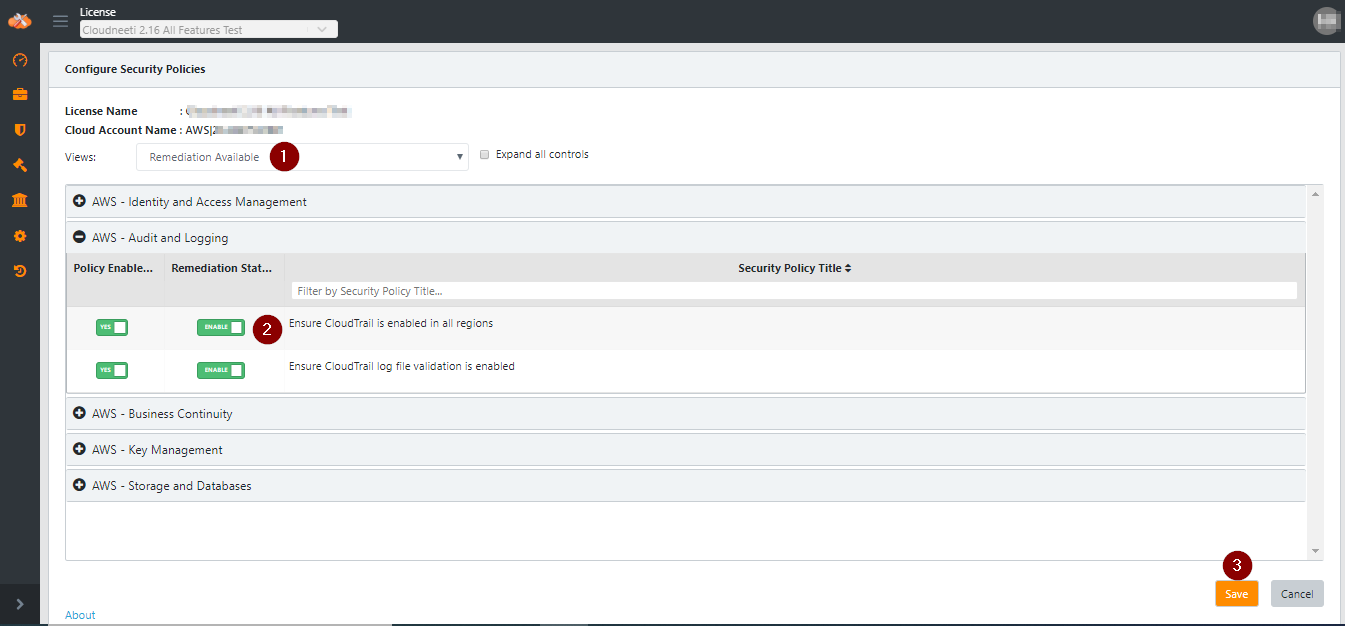
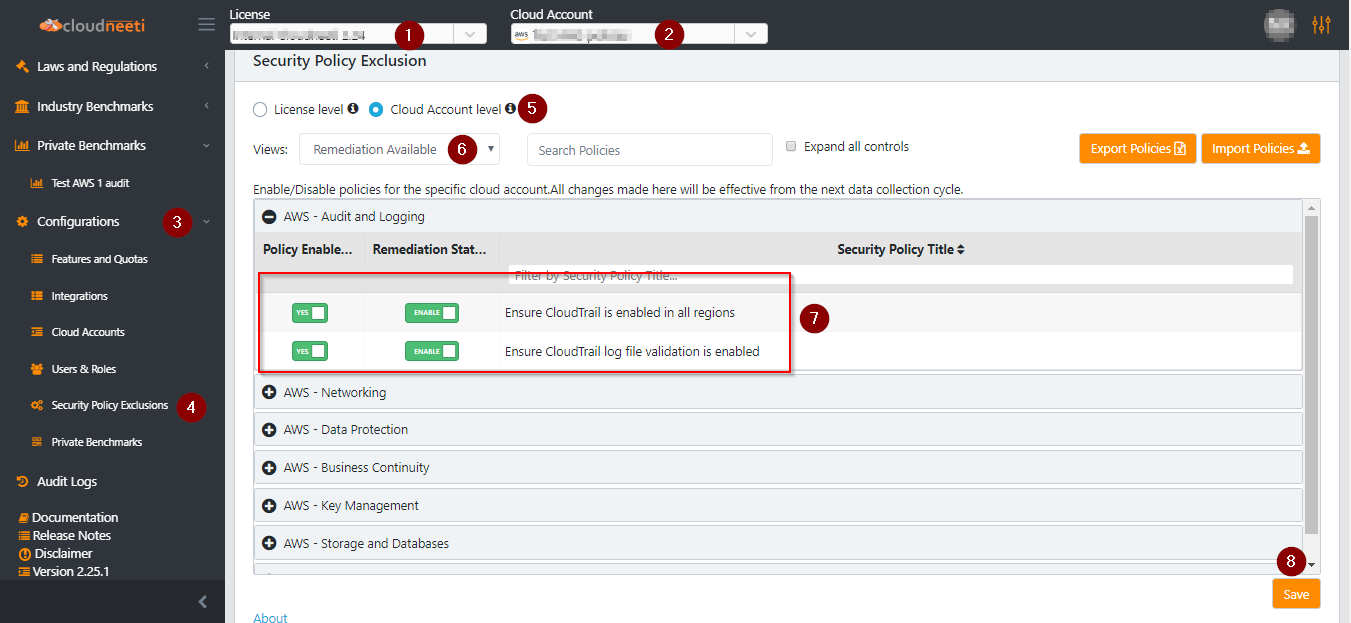
Task 14660 - Update image in AWS remediation

Changed region(s): [[0.0, 0.0, 1.0, 1.0], [0.5621, 0.2135, 0.687, 0.244]]

diff --git a/docs/remediation/awsRemediation.md b/docs/remediation/awsRemediation.md
@@ -244,17 +244,15 @@ Login to Cloudneeti portal with **License Admin** role
 
 1. Select desired **License** (1) and **Cloud Account** (2)
 
-2. Click **Configure**
+2. Navigate to **Configurations** (3) and **Security Policy Exclusion** (4)
 
-3. Select **Configure Security Policies**
+3.  Select **Account Level** (5)
 
-    ![STEP 3: Configure policy remediation ](.././images/cloudneetiRemediation/AWS_RemediationStep3.1.png#thumbnail_1)
+4. Select **Remediation available** in filter (6)
 
-4. Select **Remediation available** in filter (1)
+5. **Enable** policies for remediation (7)
 
-5. **Enable** policies for remediation (2) (3)
-
-6. Click **Save (4)**
+6. Click **Save** (8)
 
     ![STEP 3: Configure policy remediation ](.././images/cloudneetiRemediation/AWS_RemediationStep3.2.png#thumbnail_1)
 
